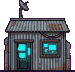
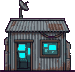
Web: stone/steel foundations under camp buildings, clean sprite fringe
- Buildings stand on stone pavers at level 1 and a riveted steel pad
  with hazard edge at level 2+ (Trading Post after its first upgrade;
  the recharge station always on steel).
- Magenta fringe pixels in camp, icon and backpack sprites turned into
  dark outline.

diff --git a/web/src/render/Background.js b/web/src/render/Background.js
@@ -11,6 +11,8 @@ import { createCanvas, get2D, hexToRgb } from './canvas.js';
 const T = WORLD.TILE_PX;
 const GROUND = WORLD.SURFACE_ROWS * T;
 const LAYER_W = 1024;
+/** Height of the stone/steel foundation drawn under camp buildings (world px). */
+const PAD_H = 5;
 
 export class Background {
   constructor(seed = 7) {
@@ -209,7 +211,7 @@ export class Background {
       if (img) {
         // Unbuilt: faint ghost of the building. Label sits above the sprite.
         if (!lvl) ctx.globalAlpha *= 0.3;
-        const ih = this._drawCampSprite(ctx, img, (tx + 0.5) * T); calls++;
+        const ih = this._drawCampSprite(ctx, img, (tx + 0.5) * T, lvl ? (lvl >= 2 ? 2 : 1) : 0); calls++;
         ctx.globalAlpha = tech && !ec.tech.includes(tech) ? 0.4 : 1;
         ctx.fillStyle = '#e8eef5'; ctx.fillText(`${b.name.toUpperCase()}${lvl ? ` ${lvl}` : ''}`, x + 2, GROUND - ih - 9); calls++;
         ctx.globalAlpha = 1;
@@ -228,11 +230,35 @@ export class Background {
   }
 
   /** Draws a camp sprite at 1.5 world px per art px, centred on cx, standing on the ground. Returns its height. */
-  _drawCampSprite(ctx, img, cx) {
+  _drawCampSprite(ctx, img, cx, pad = 0) {
     const w = img.naturalWidth * 1.5; const h = img.naturalHeight * 1.5;
+    const ph = pad ? PAD_H : 0;
+    if (pad) this._drawPad(ctx, Math.round(cx - w / 2) - 4, Math.round(w) + 8, pad === 2);
     ctx.imageSmoothingEnabled = false;
-    ctx.drawImage(img, Math.round(cx - w / 2), GROUND - h, w, h);
-    return h;
+    ctx.drawImage(img, Math.round(cx - w / 2), GROUND - ph - h, w, h);
+    return h + ph;
+  }
+
+  /** Foundation under a building: stone paving (low levels) or a riveted steel pad (high levels). */
+  _drawPad(ctx, x, w, metal) {
+    const y = GROUND - PAD_H;
+    ctx.fillStyle = '#1a1d24'; ctx.fillRect(x - 1, y - 1, w + 2, PAD_H + 1);
+    if (metal) {
+      ctx.fillStyle = '#5d6676'; ctx.fillRect(x, y, w, PAD_H);
+      ctx.fillStyle = '#8a94a6'; ctx.fillRect(x, y, w, 1);
+      ctx.fillStyle = '#3d4350'; ctx.fillRect(x, y + PAD_H - 1, w, 1);
+      for (let px = x + 3; px < x + w - 2; px += 12) { ctx.fillStyle = '#b8c0cc'; ctx.fillRect(px, y + 2, 1, 1); }
+      for (let px = x; px < x + w; px += 6) { ctx.fillStyle = (px - x) % 12 ? '#1a1d24' : '#e0b030'; ctx.fillRect(px, y + PAD_H - 1, 3, 1); } // hazard edge
+    } else {
+      for (let px = x, k = 0; px < x + w; k++) { // irregular cobbles in two rows
+        const cw = 5 + ((k * 7) % 4);
+        const top = k % 2 ? '#8b8478' : '#9d968a';
+        ctx.fillStyle = top; ctx.fillRect(px, y, Math.min(cw, x + w - px) - 1, 2);
+        ctx.fillStyle = k % 3 ? '#77706a' : '#6a645d'; ctx.fillRect(px + 2, y + 3, Math.min(cw, x + w - px - 2) - 1, PAD_H - 3);
+        px += cw;
+      }
+      ctx.fillStyle = '#b3ac9f'; ctx.fillRect(x, y, w, 1);
+    }
   }
 
   /** @param {CanvasRenderingContext2D} ctx */
@@ -241,8 +267,9 @@ export class Background {
     let calls = 0;
     const r = (x, y, w, h, c) => { ctx.fillStyle = c; ctx.fillRect(x, y, w, h); calls++; };
     if (this.campArt.shop && this.campArt.station) {
-      this._drawCampSprite(ctx, this.campArt.shop, (bc.SHOP_X + 0.5) * T);
-      this._drawCampSprite(ctx, this.campArt.station, (bc.STATION_X + 0.5) * T);
+      const shopLvl = /** @type {any} */ (this).economy?.buildings?.shop || 0; // Trading Post upgrades are 1-based on top of the base shop
+      this._drawCampSprite(ctx, this.campArt.shop, (bc.SHOP_X + 0.5) * T, shopLvl >= 1 ? 2 : 1);
+      this._drawCampSprite(ctx, this.campArt.station, (bc.STATION_X + 0.5) * T, 2);
       calls += 2;
       if (this.economy) calls += this._drawBuildings(ctx, r);
       return calls + this._drawRig(ctx);
